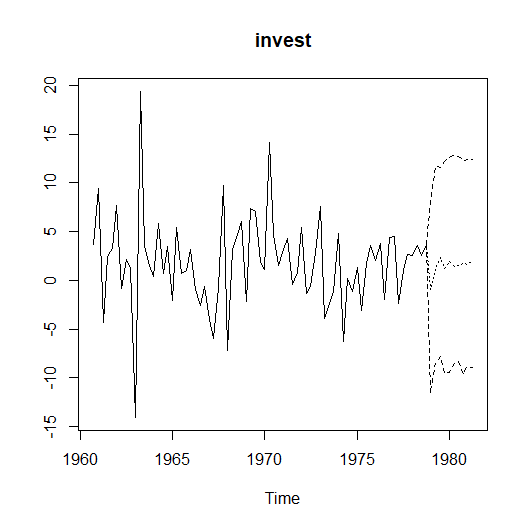
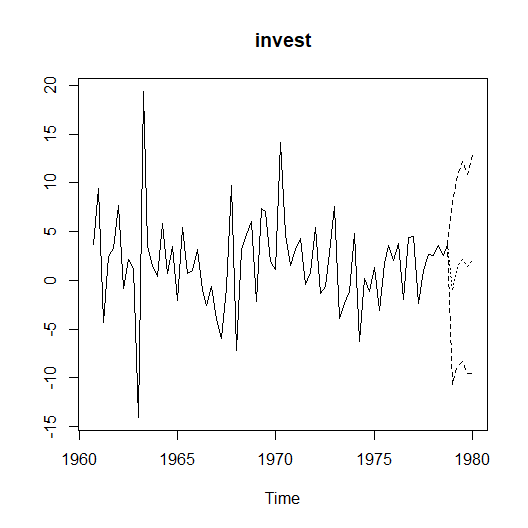
update readme and vignettes

diff --git a/README.md b/README.md
@@ -41,7 +41,7 @@ workflow into multiple steps:
 - *Application*
   - Forecasts
   - Impulse response functions
-  - Forecast error variance decompositions
+  - Forecast error variance decomposition
 
 In each step researchers are provided with the opportunity to fine-tune
 a model according to their specific requirements or to use the default
@@ -131,8 +131,6 @@ library(bvartools)
 
     ## Lade nötiges Paket: coda
 
-    ## Lade nötiges Paket: Matrix
-
 ``` r
 # Load data
 data("e1")
@@ -209,8 +207,8 @@ The output of `add_priors` and `add_initial_values` can be used as the
 input for user-written algorithms for posterior simulation. However,
 `bvartools` also comes with built-in posterior simulation functions from
 the [BayesTS](github.com/franzmohr/BayesTS) library. By using function
-`add_posterior_coefficients`, the model input is forwared to a posterior
-function and the output is added to the original object:
+`add_posterior_coefficients`, the model input is forwarded to a
+posterior function and the output is added to the original object:
 
 ``` r
 model <- add_posterior_coefficients(model)
@@ -292,49 +290,47 @@ summary(bvar_est)
     ## 
     ## Bayesian VAR model with p = 2 
     ## 
-    ## Model:
-    ## 
     ## Endogenous variables: invest, income, cons
     ## 
     ## Variable: invest 
     ## 
     ##              Mean     SD Naive SD Time-series SD    2.5%     50%    97.5%
-    ## invest.01 -0.3210 0.1280 0.001280       0.001286 -0.5734 -0.3216 -0.06831
-    ## income.01  0.1472 0.5654 0.005654       0.005654 -0.9602  0.1439  1.26083
-    ## cons.01    0.9662 0.6768 0.006768       0.006778 -0.3453  0.9560  2.32034
-    ## invest.02 -0.1600 0.1263 0.001263       0.001305 -0.4049 -0.1612  0.08747
-    ## income.02  0.1036 0.5519 0.005519       0.005439 -0.9653  0.1010  1.19676
-    ## cons.02    0.9348 0.6894 0.006894       0.006894 -0.4165  0.9283  2.28239
+    ## invest.l1 -0.3210 0.1280 0.001280       0.001286 -0.5734 -0.3216 -0.06831
+    ## income.l1  0.1472 0.5654 0.005654       0.005654 -0.9602  0.1439  1.26083
+    ## cons.l1    0.9662 0.6768 0.006768       0.006778 -0.3453  0.9560  2.32034
+    ## invest.l2 -0.1600 0.1263 0.001263       0.001305 -0.4049 -0.1612  0.08747
+    ## income.l2  0.1036 0.5519 0.005519       0.005439 -0.9653  0.1010  1.19676
+    ## cons.l2    0.9348 0.6894 0.006894       0.006894 -0.4165  0.9283  2.28239
     ## const     -1.6637 1.7556 0.017556       0.017556 -5.1131 -1.6428  1.81572
     ## 
     ## Variable: income 
     ## 
     ##                Mean      SD  Naive SD Time-series SD     2.5%       50%  97.5%
-    ## invest.01  0.043539 0.03283 0.0003283      0.0003340 -0.02134  0.043640 0.1078
-    ## income.01 -0.152587 0.14272 0.0014272      0.0014354 -0.43484 -0.152102 0.1278
-    ## cons.01    0.287003 0.17215 0.0017215      0.0017583 -0.05264  0.284572 0.6301
-    ## invest.02  0.049836 0.03215 0.0003215      0.0003215 -0.01315  0.049738 0.1135
-    ## income.02  0.019209 0.13846 0.0013846      0.0013846 -0.25074  0.020273 0.2888
-    ## cons.02   -0.008994 0.17079 0.0017079      0.0017079 -0.34237 -0.009633 0.3335
+    ## invest.l1  0.043539 0.03283 0.0003283      0.0003340 -0.02134  0.043640 0.1078
+    ## income.l1 -0.152587 0.14272 0.0014272      0.0014354 -0.43484 -0.152102 0.1278
+    ## cons.l1    0.287003 0.17215 0.0017215      0.0017583 -0.05264  0.284572 0.6301
+    ## invest.l2  0.049836 0.03215 0.0003215      0.0003215 -0.01315  0.049738 0.1135
+    ## income.l2  0.019209 0.13846 0.0013846      0.0013846 -0.25074  0.020273 0.2888
+    ## cons.l2   -0.008994 0.17079 0.0017079      0.0017079 -0.34237 -0.009633 0.3335
     ## const      1.577324 0.44978 0.0044978      0.0044978  0.69837  1.573286 2.4624
     ## 
     ## Variable: cons 
     ## 
     ##                Mean      SD  Naive SD Time-series SD      2.5%       50%
-    ## invest.01 -0.002623 0.02648 0.0002648      0.0002648 -0.054699 -0.002433
-    ## income.01  0.223178 0.11668 0.0011668      0.0011668 -0.003841  0.222297
-    ## cons.01   -0.263006 0.13888 0.0013888      0.0013888 -0.539179 -0.262530
-    ## invest.02  0.033789 0.02612 0.0002612      0.0002612 -0.017709  0.033990
-    ## income.02  0.354398 0.11138 0.0011138      0.0011302  0.131559  0.356159
-    ## cons.02   -0.020351 0.13878 0.0013878      0.0013661 -0.294508 -0.019763
+    ## invest.l1 -0.002623 0.02648 0.0002648      0.0002648 -0.054699 -0.002433
+    ## income.l1  0.223178 0.11668 0.0011668      0.0011668 -0.003841  0.222297
+    ## cons.l1   -0.263006 0.13888 0.0013888      0.0013888 -0.539179 -0.262530
+    ## invest.l2  0.033789 0.02612 0.0002612      0.0002612 -0.017709  0.033990
+    ## income.l2  0.354398 0.11138 0.0011138      0.0011302  0.131559  0.356159
+    ## cons.l2   -0.020351 0.13878 0.0013878      0.0013661 -0.294508 -0.019763
     ## const      1.292296 0.35786 0.0035786      0.0035786  0.590719  1.290012
     ##              97.5%
-    ## invest.01 0.049704
-    ## income.01 0.449267
-    ## cons.01   0.007515
-    ## invest.02 0.085769
-    ## income.02 0.571058
-    ## cons.02   0.254939
+    ## invest.l1 0.049704
+    ## income.l1 0.449267
+    ## cons.l1   0.007515
+    ## invest.l2 0.085769
+    ## income.l2 0.571058
+    ## cons.l2   0.254939
     ## const     2.006569
     ## 
     ## Variance-covariance matrix:
@@ -343,11 +339,8 @@ summary(bvar_est)
     ## invest_invest 22.3072 4.0178 0.040178       0.044990 15.8399 21.7999 31.327
     ## invest_income  0.7561 0.7313 0.007313       0.008046 -0.6330  0.7286  2.294
     ## invest_cons    1.2956 0.6022 0.006022       0.006781  0.2157  1.2701  2.576
-    ## income_invest  0.7561 0.7313 0.007313       0.008046 -0.6330  0.7286  2.294
     ## income_income  1.4378 0.2610 0.002610       0.002854  1.0191  1.4057  2.038
     ## income_cons    0.6442 0.1690 0.001690       0.001873  0.3596  0.6280  1.032
-    ## cons_invest    1.2956 0.6022 0.006022       0.006781  0.2157  1.2701  2.576
-    ## cons_income    0.6442 0.1690 0.001690       0.001873  0.3596  0.6280  1.032
     ## cons_cons      0.9348 0.1681 0.001681       0.001872  0.6610  0.9141  1.312
 
 Note that the means of the posterior draws are very close to the results
@@ -386,49 +379,47 @@ summary(bvar_est)
     ## 
     ## Bayesian VAR model with p = 2 
     ## 
-    ## Model:
-    ## 
     ## Endogenous variables: invest, income, cons
     ## 
     ## Variable: invest 
     ## 
     ##              Mean     SD Naive SD Time-series SD    2.5%     50%    97.5%
-    ## invest.01 -0.3210 0.1280 0.001280       0.001286 -0.5734 -0.3216 -0.06831
-    ## income.01  0.1472 0.5654 0.005654       0.005654 -0.9602  0.1439  1.26083
-    ## cons.01    0.9662 0.6768 0.006768       0.006778 -0.3453  0.9560  2.32034
-    ## invest.02 -0.1600 0.1263 0.001263       0.001305 -0.4049 -0.1612  0.08747
-    ## income.02  0.1036 0.5519 0.005519       0.005439 -0.9653  0.1010  1.19676
-    ## cons.02    0.9348 0.6894 0.006894       0.006894 -0.4165  0.9283  2.28239
+    ## invest.l1 -0.3210 0.1280 0.001280       0.001286 -0.5734 -0.3216 -0.06831
+    ## income.l1  0.1472 0.5654 0.005654       0.005654 -0.9602  0.1439  1.26083
+    ## cons.l1    0.9662 0.6768 0.006768       0.006778 -0.3453  0.9560  2.32034
+    ## invest.l2 -0.1600 0.1263 0.001263       0.001305 -0.4049 -0.1612  0.08747
+    ## income.l2  0.1036 0.5519 0.005519       0.005439 -0.9653  0.1010  1.19676
+    ## cons.l2    0.9348 0.6894 0.006894       0.006894 -0.4165  0.9283  2.28239
     ## const     -1.6637 1.7556 0.017556       0.017556 -5.1131 -1.6428  1.81572
     ## 
     ## Variable: income 
     ## 
     ##                Mean      SD  Naive SD Time-series SD     2.5%       50%  97.5%
-    ## invest.01  0.043539 0.03283 0.0003283      0.0003340 -0.02134  0.043640 0.1078
-    ## income.01 -0.152587 0.14272 0.0014272      0.0014354 -0.43484 -0.152102 0.1278
-    ## cons.01    0.287003 0.17215 0.0017215      0.0017583 -0.05264  0.284572 0.6301
-    ## invest.02  0.049836 0.03215 0.0003215      0.0003215 -0.01315  0.049738 0.1135
-    ## income.02  0.019209 0.13846 0.0013846      0.0013846 -0.25074  0.020273 0.2888
-    ## cons.02   -0.008994 0.17079 0.0017079      0.0017079 -0.34237 -0.009633 0.3335
+    ## invest.l1  0.043539 0.03283 0.0003283      0.0003340 -0.02134  0.043640 0.1078
+    ## income.l1 -0.152587 0.14272 0.0014272      0.0014354 -0.43484 -0.152102 0.1278
+    ## cons.l1    0.287003 0.17215 0.0017215      0.0017583 -0.05264  0.284572 0.6301
+    ## invest.l2  0.049836 0.03215 0.0003215      0.0003215 -0.01315  0.049738 0.1135
+    ## income.l2  0.019209 0.13846 0.0013846      0.0013846 -0.25074  0.020273 0.2888
+    ## cons.l2   -0.008994 0.17079 0.0017079      0.0017079 -0.34237 -0.009633 0.3335
     ## const      1.577324 0.44978 0.0044978      0.0044978  0.69837  1.573286 2.4624
     ## 
     ## Variable: cons 
     ## 
     ##                Mean      SD  Naive SD Time-series SD      2.5%       50%
-    ## invest.01 -0.002623 0.02648 0.0002648      0.0002648 -0.054699 -0.002433
-    ## income.01  0.223178 0.11668 0.0011668      0.0011668 -0.003841  0.222297
-    ## cons.01   -0.263006 0.13888 0.0013888      0.0013888 -0.539179 -0.262530
-    ## invest.02  0.033789 0.02612 0.0002612      0.0002612 -0.017709  0.033990
-    ## income.02  0.354398 0.11138 0.0011138      0.0011302  0.131559  0.356159
-    ## cons.02   -0.020351 0.13878 0.0013878      0.0013661 -0.294508 -0.019763
+    ## invest.l1 -0.002623 0.02648 0.0002648      0.0002648 -0.054699 -0.002433
+    ## income.l1  0.223178 0.11668 0.0011668      0.0011668 -0.003841  0.222297
+    ## cons.l1   -0.263006 0.13888 0.0013888      0.0013888 -0.539179 -0.262530
+    ## invest.l2  0.033789 0.02612 0.0002612      0.0002612 -0.017709  0.033990
+    ## income.l2  0.354398 0.11138 0.0011138      0.0011302  0.131559  0.356159
+    ## cons.l2   -0.020351 0.13878 0.0013878      0.0013661 -0.294508 -0.019763
     ## const      1.292296 0.35786 0.0035786      0.0035786  0.590719  1.290012
     ##              97.5%
-    ## invest.01 0.049704
-    ## income.01 0.449267
-    ## cons.01   0.007515
-    ## invest.02 0.085769
-    ## income.02 0.571058
-    ## cons.02   0.254939
+    ## invest.l1 0.049704
+    ## income.l1 0.449267
+    ## cons.l1   0.007515
+    ## invest.l2 0.085769
+    ## income.l2 0.571058
+    ## cons.l2   0.254939
     ## const     2.006569
     ## 
     ## Variance-covariance matrix:
@@ -437,11 +428,8 @@ summary(bvar_est)
     ## invest_invest 22.3072 4.0178 0.040178       0.044990 15.8399 21.7999 31.327
     ## invest_income  0.7561 0.7313 0.007313       0.008046 -0.6330  0.7286  2.294
     ## invest_cons    1.2956 0.6022 0.006022       0.006781  0.2157  1.2701  2.576
-    ## income_invest  0.7561 0.7313 0.007313       0.008046 -0.6330  0.7286  2.294
     ## income_income  1.4378 0.2610 0.002610       0.002854  1.0191  1.4057  2.038
     ## income_cons    0.6442 0.1690 0.001690       0.001873  0.3596  0.6280  1.032
-    ## cons_invest    1.2956 0.6022 0.006022       0.006781  0.2157  1.2701  2.576
-    ## cons_income    0.6442 0.1690 0.001690       0.001873  0.3596  0.6280  1.032
     ## cons_cons      0.9348 0.1681 0.001681       0.001872  0.6610  0.9141  1.312
 
 ### Thin results
@@ -454,14 +442,31 @@ bvar_est <- thin(bvar_est, thin = 10)
 
 ### Forecasts
 
-Forecasts can be obtained with the function `predict`. If the model
-contains deterministic terms, new values have to be provided in the
-argument `new_D`, which must be of the same length as the argument
-`n.ahead`.
+Forecasts are obtained in two steps. Function `add_forecast_input`
+generates the data of the forecast periods, where deterministic terms
+can be provided in the argument `deterministic` and unmodelled variables
+in the argument `exogen`. If they are not provided, the function tries
+to obtain them from the model. Function `add_posterior_forecasts` then
+simulates the forecasts.
 
 ``` r
-bvar_pred <- predict(bvar_est, n.ahead = 5, new_D = rep(1, 5))
+bvar_est <- add_forecast_input(bvar_est, n_ahead = 5)
+bvar_est <- add_posterior_forecasts(bvar_est)
+```
 
+Forecasts with credible bands can be extracted from the model using the
+`predict` function. The `n_ahead` argument can be used to set the given
+forecast horizon. However, the number of available forecast periods is
+limited to specification used in `add_forecast_input`.
+
+``` r
+bvar_pred <- predict(bvar_est)
+```
+
+    ## Warning in predict.bvarmodel(bvar_est): Argument 'n_ahead' is larger than the value in object$model$h.
+    ## Limiting the output to the latter.
+
+``` r
 plot(bvar_pred)
 ```
 
@@ -472,7 +477,7 @@ plot(bvar_pred)
 #### Forecast error impulse response
 
 ``` r
-IR <- irf(bvar_est, impulse = "income", response = "cons", n.ahead = 8)
+IR <- irf(bvar_est, impulse = "income", response = "cons", n_ahead = 8)
 
 plot(IR, main = "Forecast Error Impulse Response", xlab = "Period", ylab = "Response")
 ```
@@ -482,7 +487,7 @@ plot(IR, main = "Forecast Error Impulse Response", xlab = "Period", ylab = "Resp
 #### Orthogonalised impulse response
 
 ``` r
-OIR <- irf(bvar_est, impulse = "income", response = "cons", n.ahead = 8, type = "oir")
+OIR <- irf(bvar_est, impulse = "income", response = "cons", n_ahead = 8, type = "oir")
 
 plot(OIR, main = "Orthogonalised Impulse Response", xlab = "Period", ylab = "Response")
 ```
@@ -492,7 +497,7 @@ plot(OIR, main = "Orthogonalised Impulse Response", xlab = "Period", ylab = "Res
 #### Generalised impulse response
 
 ``` r
-GIR <- irf(bvar_est, impulse = "income", response = "cons", n.ahead = 8, type = "gir")
+GIR <- irf(bvar_est, impulse = "income", response = "cons", n_ahead = 8, type = "gir")
 
 plot(GIR, main = "Generalised Impulse Response", xlab = "Period", ylab = "Response")
 ```
